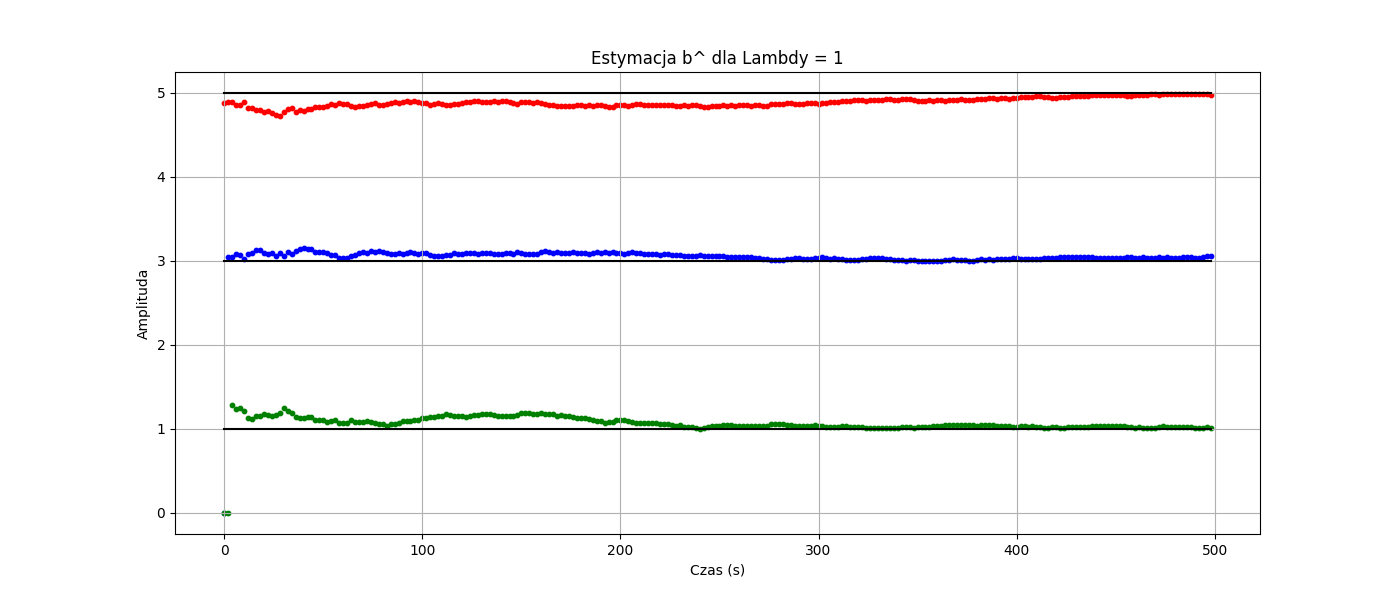
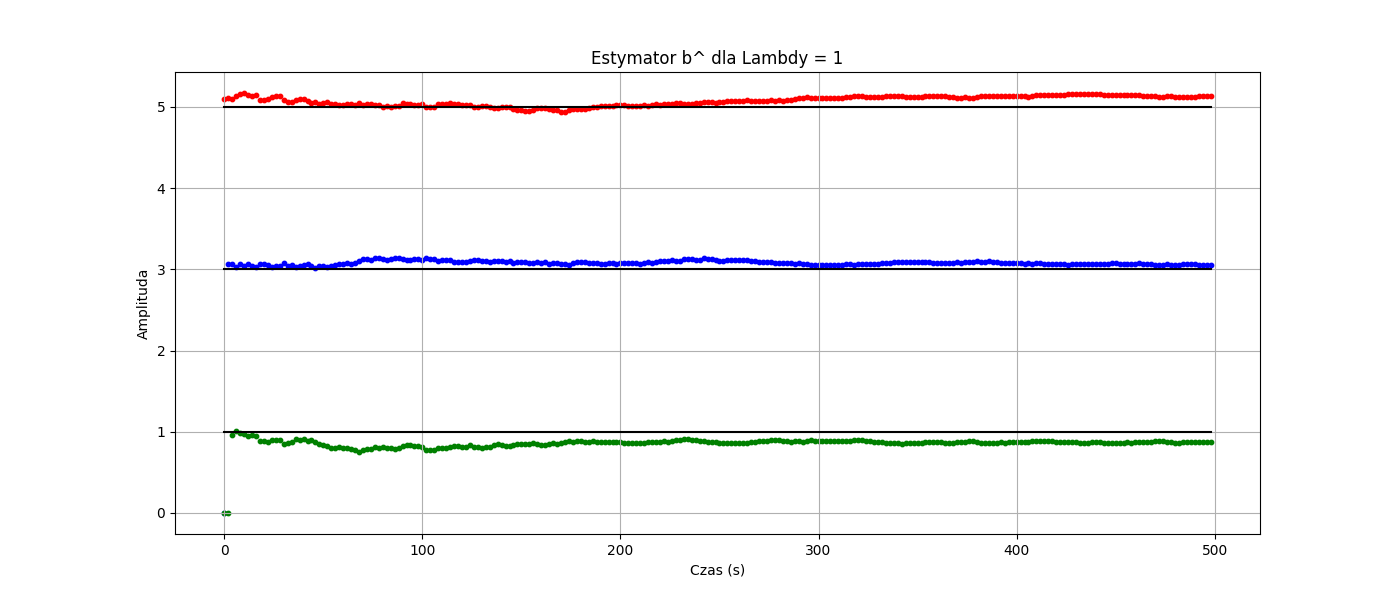
add simulation for part II

diff --git a/adaptacyjne/projekt2/wave.py b/adaptacyjne/projekt2/wave.py
@@ -4,18 +4,126 @@ import random
 import os
 from matplotlib import cm
 
-C = 0.7
+C = 0.7 # 
+images_folder = "images_test"
 
-# def preparing_true_data(u_k, t, b_true):
-#     N = len(t)
-#     V_true = np.zeros(N)
-#     y_true = np.zeros(N)
-#     noise = np.zeros(N)
-#     for k in range(2, N):
-#         noise[k] = C *(random.random() + random.random() - 1)
-#         V_true[k] =  (b_true[0]*u_k[k] + b_true[1]*u_k[k-1] + b_true[2]*u_k[k-2])
-#         y_true[k] = V_true[k] + noise[k]
-#     return y_true, V_true, noise
+def simulation2(N, b_true, Lambda):
+    B_true = np.zeros((N,3))
+    P_k = np.array([[100, 0, 0],
+                    [0, 100, 0],
+                    [0, 0, 100]])
+
+    b_estimated = np.zeros((3,N))
+    
+    V_estimated = np.zeros(N)
+    y_estimated = np.zeros(N)
+
+    V_true = np.zeros(N) # prawdziwe wyjście z obiektu bez zakłócenia
+    y_true = np.zeros(N) # prawdziwe wyjście z zakłóceniem
+
+    # Tworzenie zakłócenia
+    noise = [C *(random.random() + random.random() - 1) for _ in range(N)]
+    # Tworzenie danych przed pętlą 
+    # Dla [0]
+    u_calculated = np.zeros(N)
+    u_calculated[0] = (np.sin(2*np.pi/3 * 0) + 1.5)
+    Phi = np.array([[u_calculated[0]],
+                    [0],
+                    [0]])
+    V_true[0] = b_true[0]*u_calculated[0]
+    y_true[0] = V_true[0]  + noise[0]
+    B_true[0] = b_true
+    new_P_k = 1/Lambda * (P_k - (np.dot(np.dot(np.dot(P_k,Phi),Phi.T),P_k))/ (Lambda + np.dot(np.dot(Phi.T, P_k),Phi)))
+    P_k = new_P_k
+
+    B_estimated = [ [0],
+                    [0],
+                    [0]]
+    b_estimated[:,0] = (B_estimated + (y_true[0] - np.dot(Phi.T, B_estimated)) * np.dot(P_k,Phi)).reshape((3,)) 
+
+    # DLa [1]
+    u_calculated[1] = (np.sin(2*np.pi/3 * 1) + 1.5)/b_estimated[0, 0]
+    Phi = np.array([[u_calculated[1]],
+                    [u_calculated[0]],
+                    [0]])
+
+    V_true[1] = b_true[0]*u_calculated[1] + b_true[1]*u_calculated[0] 
+    y_true[1] =  V_true[1] + noise[1]
+    B_true[1] = b_true
+    new_P_k = 1/Lambda * (P_k - (np.dot(np.dot(np.dot(P_k,Phi),Phi.T),P_k))/ (Lambda + np.dot(np.dot(Phi.T, P_k),Phi)))
+    P_k = new_P_k
+
+    B_estimated = [ [b_estimated[0, 0]],
+                    [b_estimated[1, 0]],
+                    [b_estimated[2, 0]]]
+    b_estimated[:,1] = (B_estimated + (y_true[1] - np.dot(Phi.T, B_estimated)) * np.dot(P_k,Phi)).reshape((3,)) 
+
+    for k in range(2, N):
+        # Do zmiany b* 
+        if(k % (N/5) == 0):
+            # b_true = [b_true[0] + 1, b_true[1] + 1, b_true[2] + 1
+            b_true[0] = B_true[0][0] +  C *(random.random() + random.random() - 1)
+        B_true[k] = b_true
+            
+        u_calculated[k] = ((np.sin(2*np.pi/3 * k) + 1.5) -  (b_estimated[1, k-1]* u_calculated[k-1] + b_estimated[2, k-1]*u_calculated[k-2]))/b_estimated[0, k-1]
+        Phi = np.array([[u_calculated[k]],
+                        [u_calculated[k-1]],
+                        [u_calculated[k-2]]])
+
+        # Wyliczamy nowe wyjście na podstawie oczekiwanego wejścia?? z b_true
+        V_true[k] =  (b_true[0]*u_calculated[k] + b_true[1]*u_calculated[k-1] + b_true[2]*u_calculated[k-2])
+        y_true[k] = V_true[k] + noise[k]
+
+        # Calculate P_k - macierz kowariancji P_k to P(k-1) a new_P_k to P(k)
+        new_P_k = 1/Lambda * (P_k - (np.dot(np.dot(np.dot(P_k,Phi),Phi.T),P_k))/ (Lambda + np.dot(np.dot(Phi.T, P_k),Phi)))
+        P_k = new_P_k
+
+        # Calculate b_estimated 
+        B_estimated = [[b_estimated[0, k-1]],
+                       [b_estimated[1, k-1]],
+                       [b_estimated[2, k-1]]]
+        b_estimated[:,k] = (B_estimated + (y_true[k] - np.dot(Phi.T, B_estimated)) * np.dot(P_k,Phi)).reshape((3,)) 
+            
+        V_estimated[k] =  (b_estimated[0, k]*u_calculated[k] + b_estimated[1, k]*u_calculated[k-1] + b_estimated[2, k]*u_calculated[k-2])
+        y_estimated[k] = V_estimated[k] + noise[k]
+
+    # print(f"B true = {B_true}")
+    print(f"B2 = {b_estimated[:,49]}")    
+    return V_true, V_estimated, y_true, y_estimated, b_estimated, B_true
+
+def image2(t, b_true, Lambda):
+    V_true, V_estimated, y_true, y_estimated, b_estimated, B_true = simulation2(len(t), b_true, Lambda)
+    fig = plt.figure(figsize=(14, 6))
+    ax = fig.add_subplot(111)
+    ax.plot(t, V_true, c='b', label="Fala na wyjściu -> prawdziwa") 
+    ax.plot(t, V_estimated, c='r', label="Estymowana fala")
+    ax.scatter(t, V_estimated, c='r', marker="o", s=10) 
+    # ax.plot(t, y_true, c='g', label="Fala na wyjściu + szum -> prawdziwa")
+    # ax.plot(t, y_estimated, c='r', label="Estymowana fala + szum")  
+    # ax.scatter(t, y_estimated, c='r', marker="o", s=10, label="Estymowana fala + szum")  
+    ax.set_title(f'Prawdziwa i estymowana fala bez szumu przy zmiennym w czasie b* dla Lamby = {Lambda}')
+    ax.legend(loc='upper right')
+    ax.set_xlabel('Czas (s)')
+    ax.set_ylabel('Amplituda')
+    fig.savefig(os.path.join(os.path.dirname(__file__), images_folder, f"Fala_zmienne_b={Lambda}.png"))
+
+    
+    fig_est = plt.figure(figsize=(14, 6))
+    ax_est = fig_est.add_subplot(111)
+    ax_est.scatter(t, b_estimated[0], c='r', marker="o", s=10, label="Estymowane b0 od Lambdy")  
+    ax_est.plot(t, B_true[:,0], c='black') 
+    ax_est.scatter(t, b_estimated[1], c='b', marker="o", s=10, label="Estymowane b1 od Lambdy")
+    ax_est.plot(t, B_true[:,1], c='black') 
+    ax_est.scatter(t, b_estimated[2], c='g', marker="o", s=10, label="Estymowane b2 od Lambdy") 
+    ax_est.plot(t, B_true[:,2], c='black') 
+    ax_est.set_title(f'Estymator b^  przy zmiennym w czasie b* dla Lambdy = {Lambda}')
+    # ax_est.legend(loc='')
+    ax_est.set_xlabel('Czas (s)')
+    ax_est.set_ylabel('Amplituda')
+    ax_est.grid(True)
+    # ax_est.set_ylim(0, 5)
+    fig_est.savefig(os.path.join(os.path.dirname(__file__), images_folder, f"B_estymowane_zmienne={Lambda}.png"))
+
 
 def simulation(N, b_true, Lambda):    
     P_k = np.array([[100, 0, 0],
@@ -106,7 +214,7 @@ def image(t, b_true, Lambda):
     ax.legend(loc='upper right')
     ax.set_xlabel('Czas (s)')
     ax.set_ylabel('Amplituda')
-    fig.savefig(os.path.join(os.path.dirname(__file__), "images_test", f"Estymowana_Lambda={Lambda}.png"))
+    fig.savefig(os.path.join(os.path.dirname(__file__), images_folder, f"Estymowana_Lambda={Lambda}.png"))
 
     
     fig_est = plt.figure(figsize=(14, 6))
@@ -117,39 +225,30 @@ def image(t, b_true, Lambda):
     ax_est.plot(t, [b_true[1] for _ in range(len(t))], c='black') 
     ax_est.scatter(t, b_estimated[2], c='g', marker="o", s=10, label="Estymowane b2 od Lambdy") 
     ax_est.plot(t, [b_true[2] for _ in range(len(t))], c='black') 
-    ax_est.set_title(f'Estymacja b^ dla Lambdy = {Lambda}')
+    ax_est.set_title(f'Estymator b^ dla Lambdy = {Lambda}')
     # ax_est.legend(loc='')
     ax_est.set_xlabel('Czas (s)')
     ax_est.set_ylabel('Amplituda')
     ax_est.grid(True)
     # ax_est.set_ylim(0, 5)
-    fig_est.savefig(os.path.join(os.path.dirname(__file__), "images_test", f"B_estymowane_lambda={Lambda}.png"))
+    fig_est.savefig(os.path.join(os.path.dirname(__file__), images_folder, f"B_estymowane_lambda={Lambda}.png"))
 
 
-# ZNANE
-# u_k
-# -> u_k -- wartość na wejściu 
-# y_k -> y_3 -- wartość na wyjściu
-# SZUKANE
-# b_true -> poprzez b_estimated
-# INNE
-# V_estimated -> sygnał po wyjściu z obiektu, którym mamy "sterować" 
 def main():
     duration = 500.0  # Duration of the u_k(seconds)
-    N = 250
+    N = 250 # Amount of samples
     t = np.linspace(0, duration, N, endpoint=False) # <class 'numpy.ndarray'>
-    u_k = np.random.uniform(0, 3,  N)
-    #u_k = [ random.random()-0.5 for _ in range(N)]
-    # u_k = [1 for i in range(len(t))]
+    # u_k = np.random.uniform(0, 3,  N)
 
-    Lambda = [1, 0.9]
-    b_0, b_1, b_2 = 5, 3, 1 #17.5, 10, 2.5
-    b_true = [b_0, b_1, b_2]
+    Lambda = [1, 0.99, 0.95, 0.9, 0.8]
+    b_true = [5, 3, 1]
     
-    for i in range(len(Lambda)):
-        image(t, b_true, Lambda[i])
+    # Part I
+    image(t, b_true, Lambda[0])
 
-    # image_MSE(t, u_k, b_true, Lambda)
+    # Part II
+    for i in range(len(Lambda)):
+        image2(t, b_true, Lambda[i])
     
 if __name__ == "__main__":
     main()
